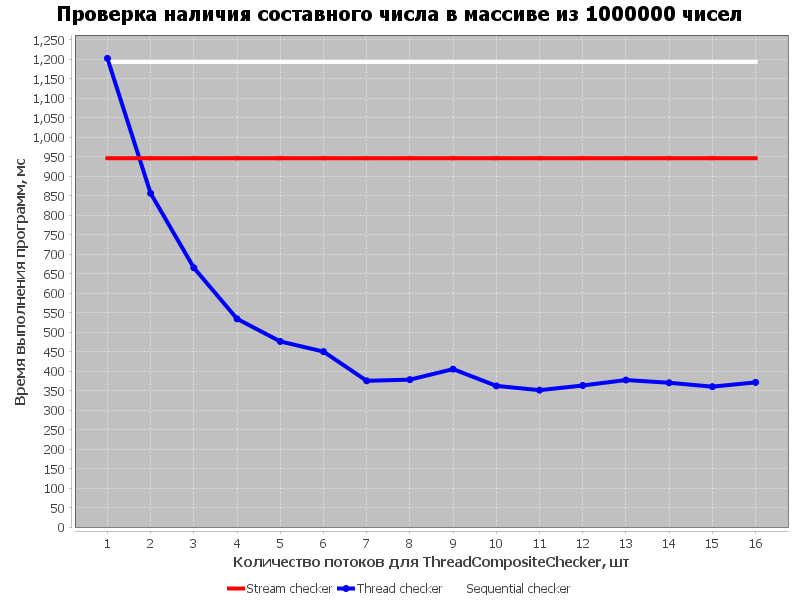
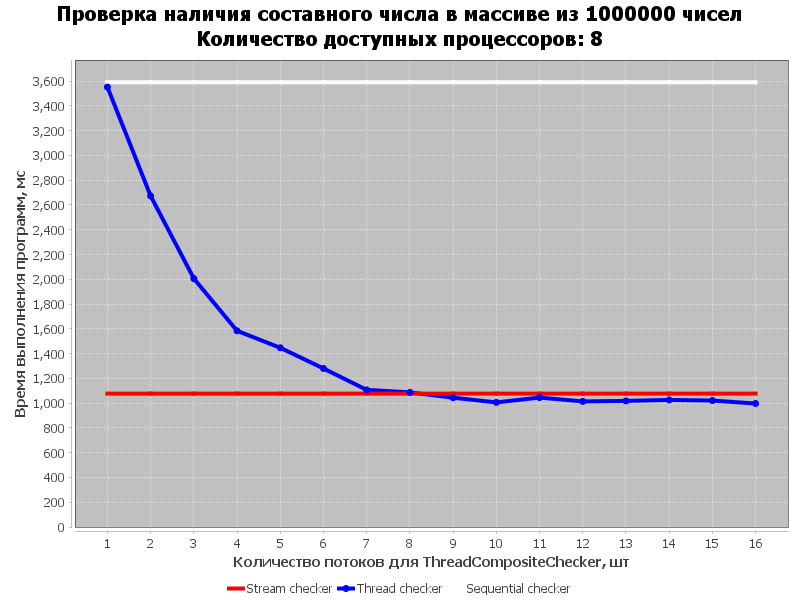
Coverage improvement

Changed region(s): [[0.0, 0.03, 1.0, 0.87], [0.125, 0.33, 0.9688, 0.69]]

diff --git a/Task_2_1_1/src/test/java/ru/nsu/lyskov/CompositeCheckerTest.java b/Task_2_1_1/src/test/java/ru/nsu/lyskov/CompositeCheckerTest.java
@@ -1,0 +1,35 @@
+package ru.nsu.lyskov;
+
+import static org.junit.jupiter.api.Assertions.assertFalse;
+import static org.junit.jupiter.api.Assertions.assertThrows;
+import static org.junit.jupiter.api.Assertions.assertTrue;
+
+import org.junit.jupiter.api.Test;
+
+public class CompositeCheckerTest {
+    @Test
+    void illegalArgumentExceptionTest() {
+        assertThrows(
+                IllegalArgumentException.class,
+                () -> CompositeChecker.sequentialCompositeCheck(new int[]{2, 1, 0})
+        );
+        assertThrows(
+                IllegalArgumentException.class,
+                () -> CompositeChecker.sequentialCompositeCheck(new int[]{-2})
+        );
+    }
+
+    @Test
+    void compositeFindingCheck() {
+        assertTrue(CompositeChecker.streamCompositeCheck(new int[]{2, 3, 4, 7}));
+        assertTrue(CompositeChecker.threadCompositeCheck(new int[]{2, 3, 4, 7}));
+        assertTrue(CompositeChecker.threadCompositeCheck(new int[]{2, 3, 4, 7}, 3));
+        assertTrue(CompositeChecker.sequentialCompositeCheck(new int[]{2, 3, 4, 7}));
+
+        assertFalse(CompositeChecker.streamCompositeCheck(new int[]{2, 3, 5, 7}));
+        assertFalse(CompositeChecker.threadCompositeCheck(new int[]{2, 3, 5, 7}));
+        assertFalse(CompositeChecker.threadCompositeCheck(new int[]{2, 3, 5, 7}, 3));
+        assertFalse(CompositeChecker.sequentialCompositeCheck(new int[]{2, 3, 5, 7}));
+    }
+
+}

diff --git a/Task_2_1_1/src/main/java/ru/nsu/lyskov/PerformanceAnalyzer.java b/Task_2_1_1/src/main/java/ru/nsu/lyskov/PerformanceAnalyzer.java
@@ -72,7 +72,8 @@ public class PerformanceAnalyzer {
 
         // Создаём график
         JFreeChart chart = ChartFactory.createXYLineChart(
-                "Проверка наличия составного числа в массиве из " + arraySize + " чисел",
+                "Проверка наличия составного числа в массиве из " + arraySize + " чисел"
+                    + "\nКоличество доступных процессоров: " + getAvailableProcessorsCount(),
                 "Количество потоков для ThreadCompositeChecker, шт",
                 "Время выполнения программ, мс",
                 dataset,
@@ -117,5 +118,9 @@ public class PerformanceAnalyzer {
             renderer.setSeriesStroke(i, new BasicStroke(4.0f));
         }
         return renderer;
+    }
+
+    public static void main(String[] args) {
+        saveAnalysisChart(1_000_000);
     }
 }

diff --git a/Task_2_1_1/src/test/java/ru/nsu/lyskov/PerformanceAnalyzerTest.java b/Task_2_1_1/src/test/java/ru/nsu/lyskov/PerformanceAnalyzerTest.java
@@ -3,8 +3,15 @@ package ru.nsu.lyskov;
 import org.junit.jupiter.api.Test;
 
 class PerformanceAnalyzerTest {
+    private static final int arraySize = 10_000;
+
     @Test
-    void testOnMillionElements() {
-        PerformanceAnalyzer.saveAnalysisChart(1_000_000);
+    void testSave() {
+        PerformanceAnalyzer.saveAnalysisChart(arraySize);
+    }
+
+    @Test
+    void testShow() {
+        PerformanceAnalyzer.showAnalysisChart(arraySize);
     }
 }

diff --git a/Task_2_1_1/src/main/java/ru/nsu/lyskov/AbstractCompositeChecker.java b/Task_2_1_1/src/main/java/ru/nsu/lyskov/AbstractCompositeChecker.java
@@ -9,7 +9,7 @@ abstract class AbstractCompositeChecker {
             case 1, 2:
                 return false;
             default:
-                for (int i = 3; i * i <= num; i += 2) {
+                for (int i = 2; i * i <= num; i++) {
                     if (num % i == 0) return true;
                 }
                 break;
